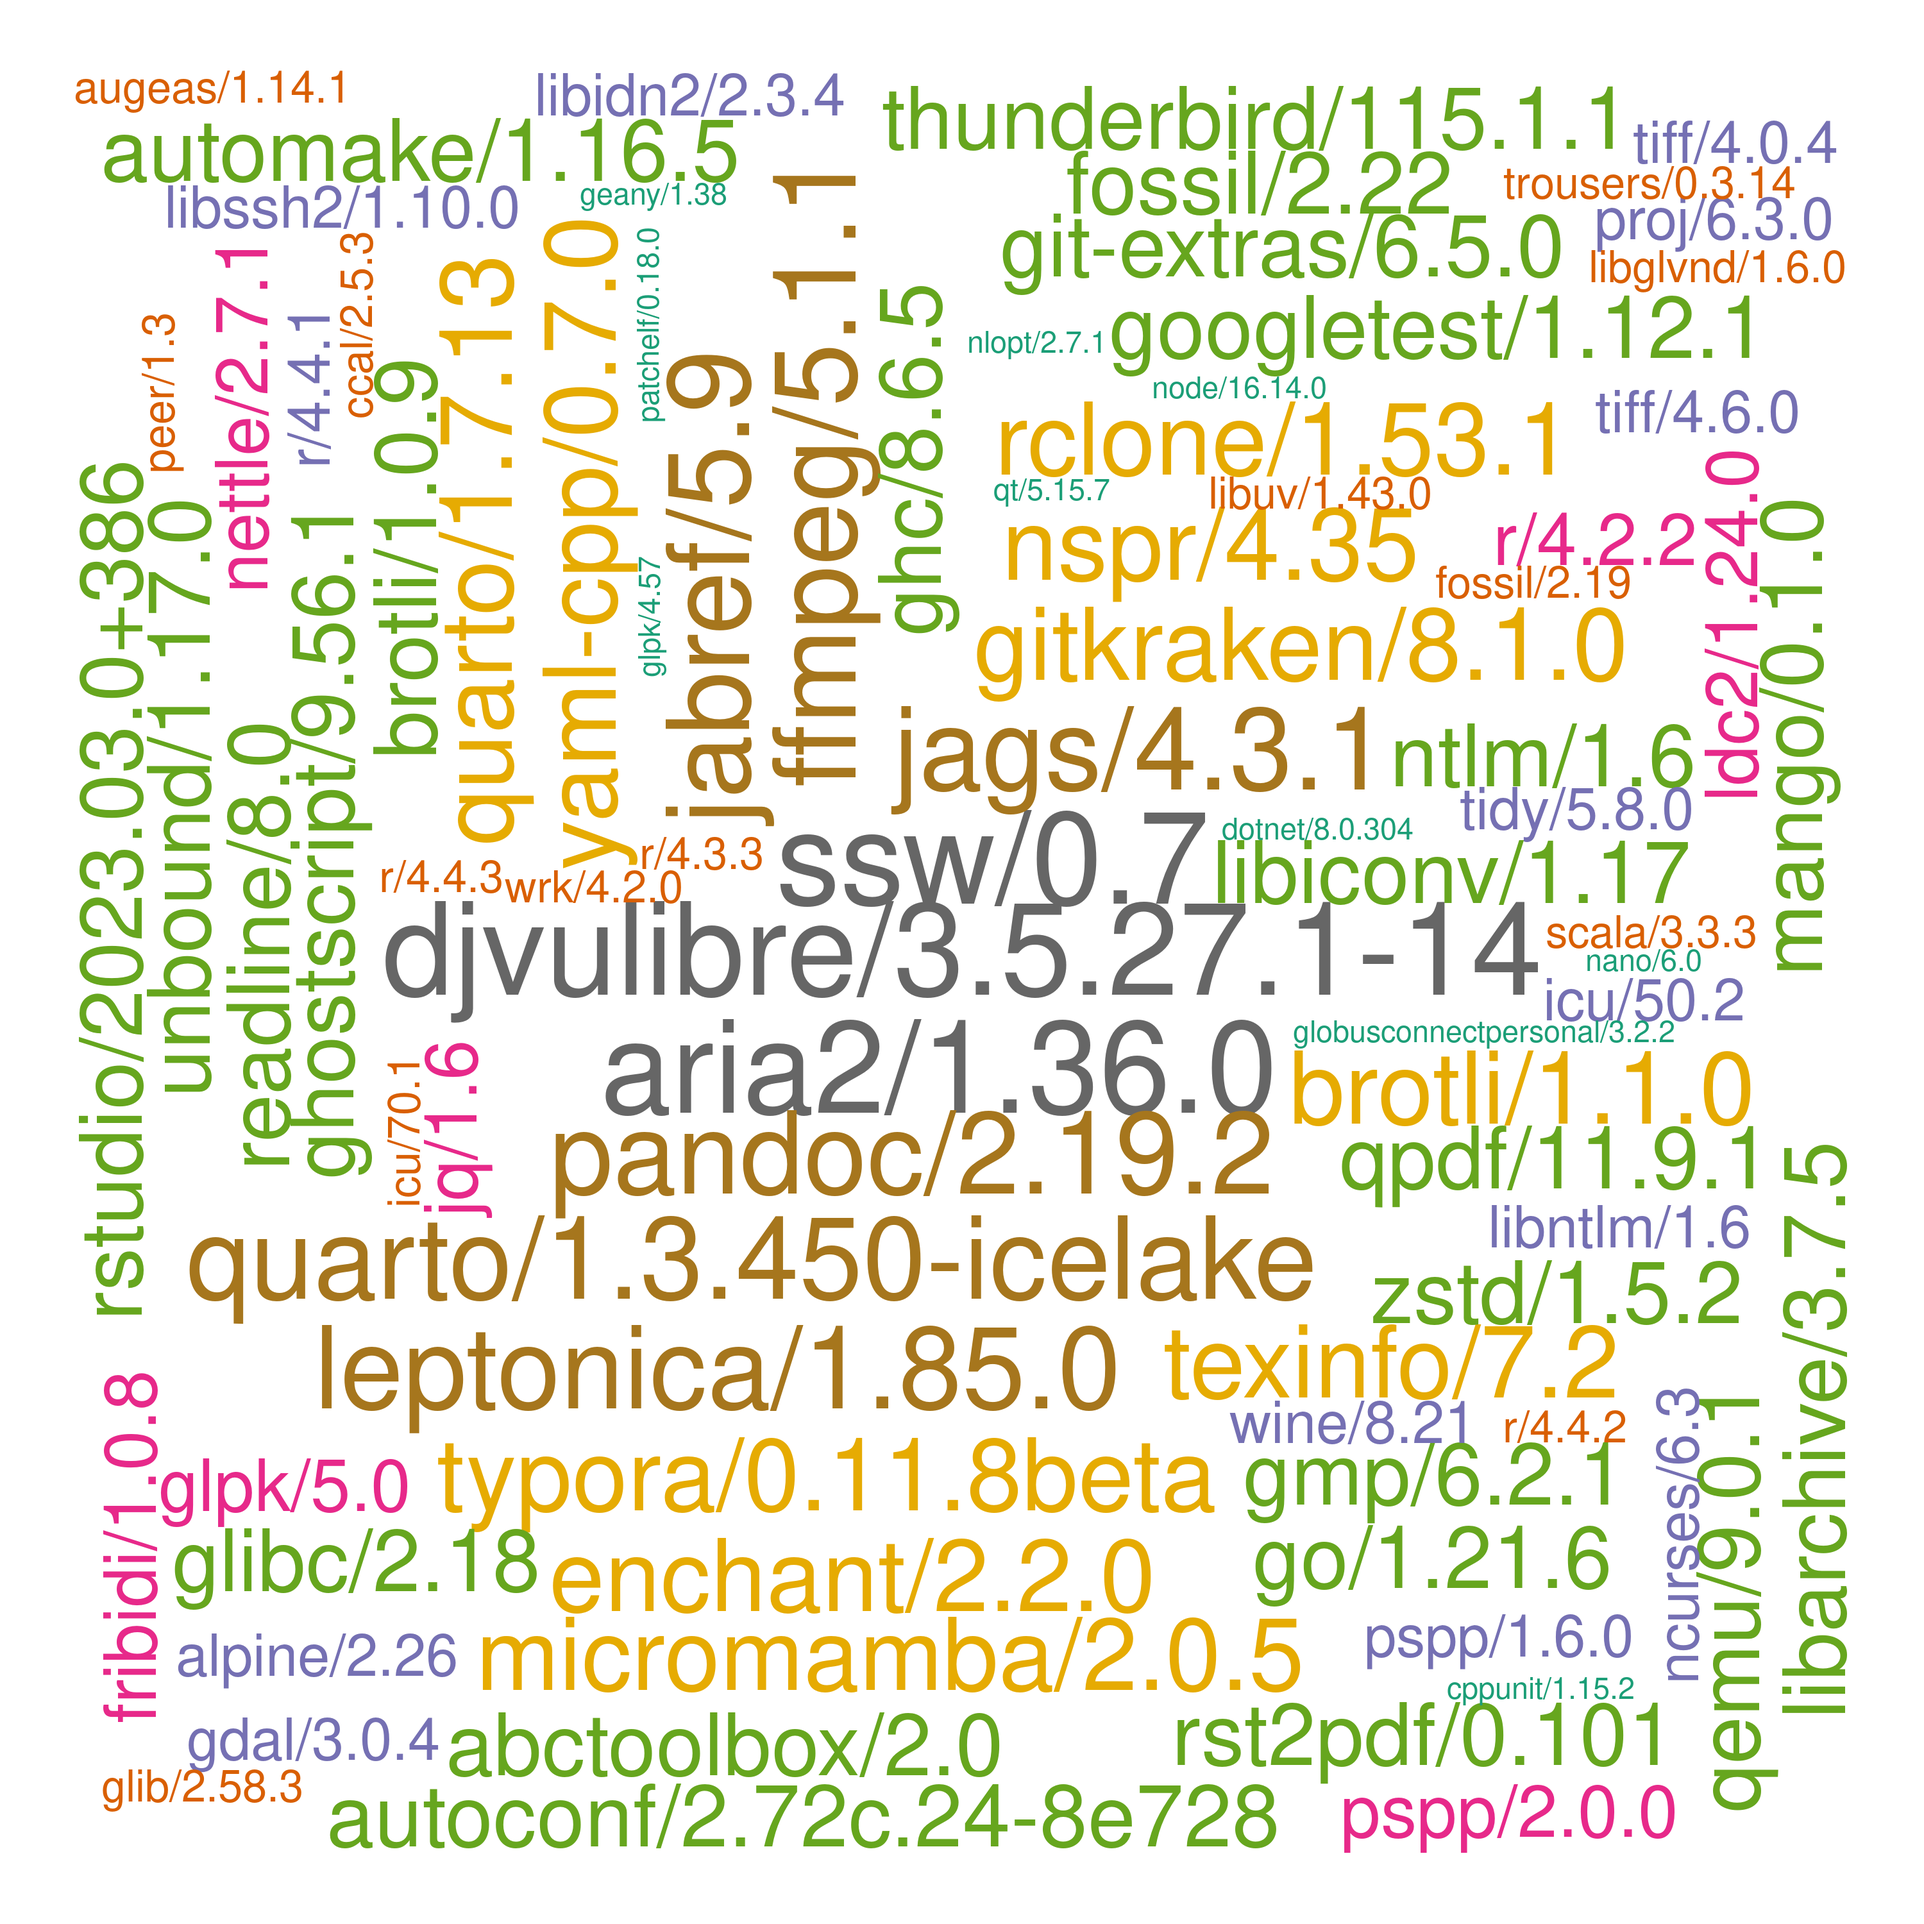
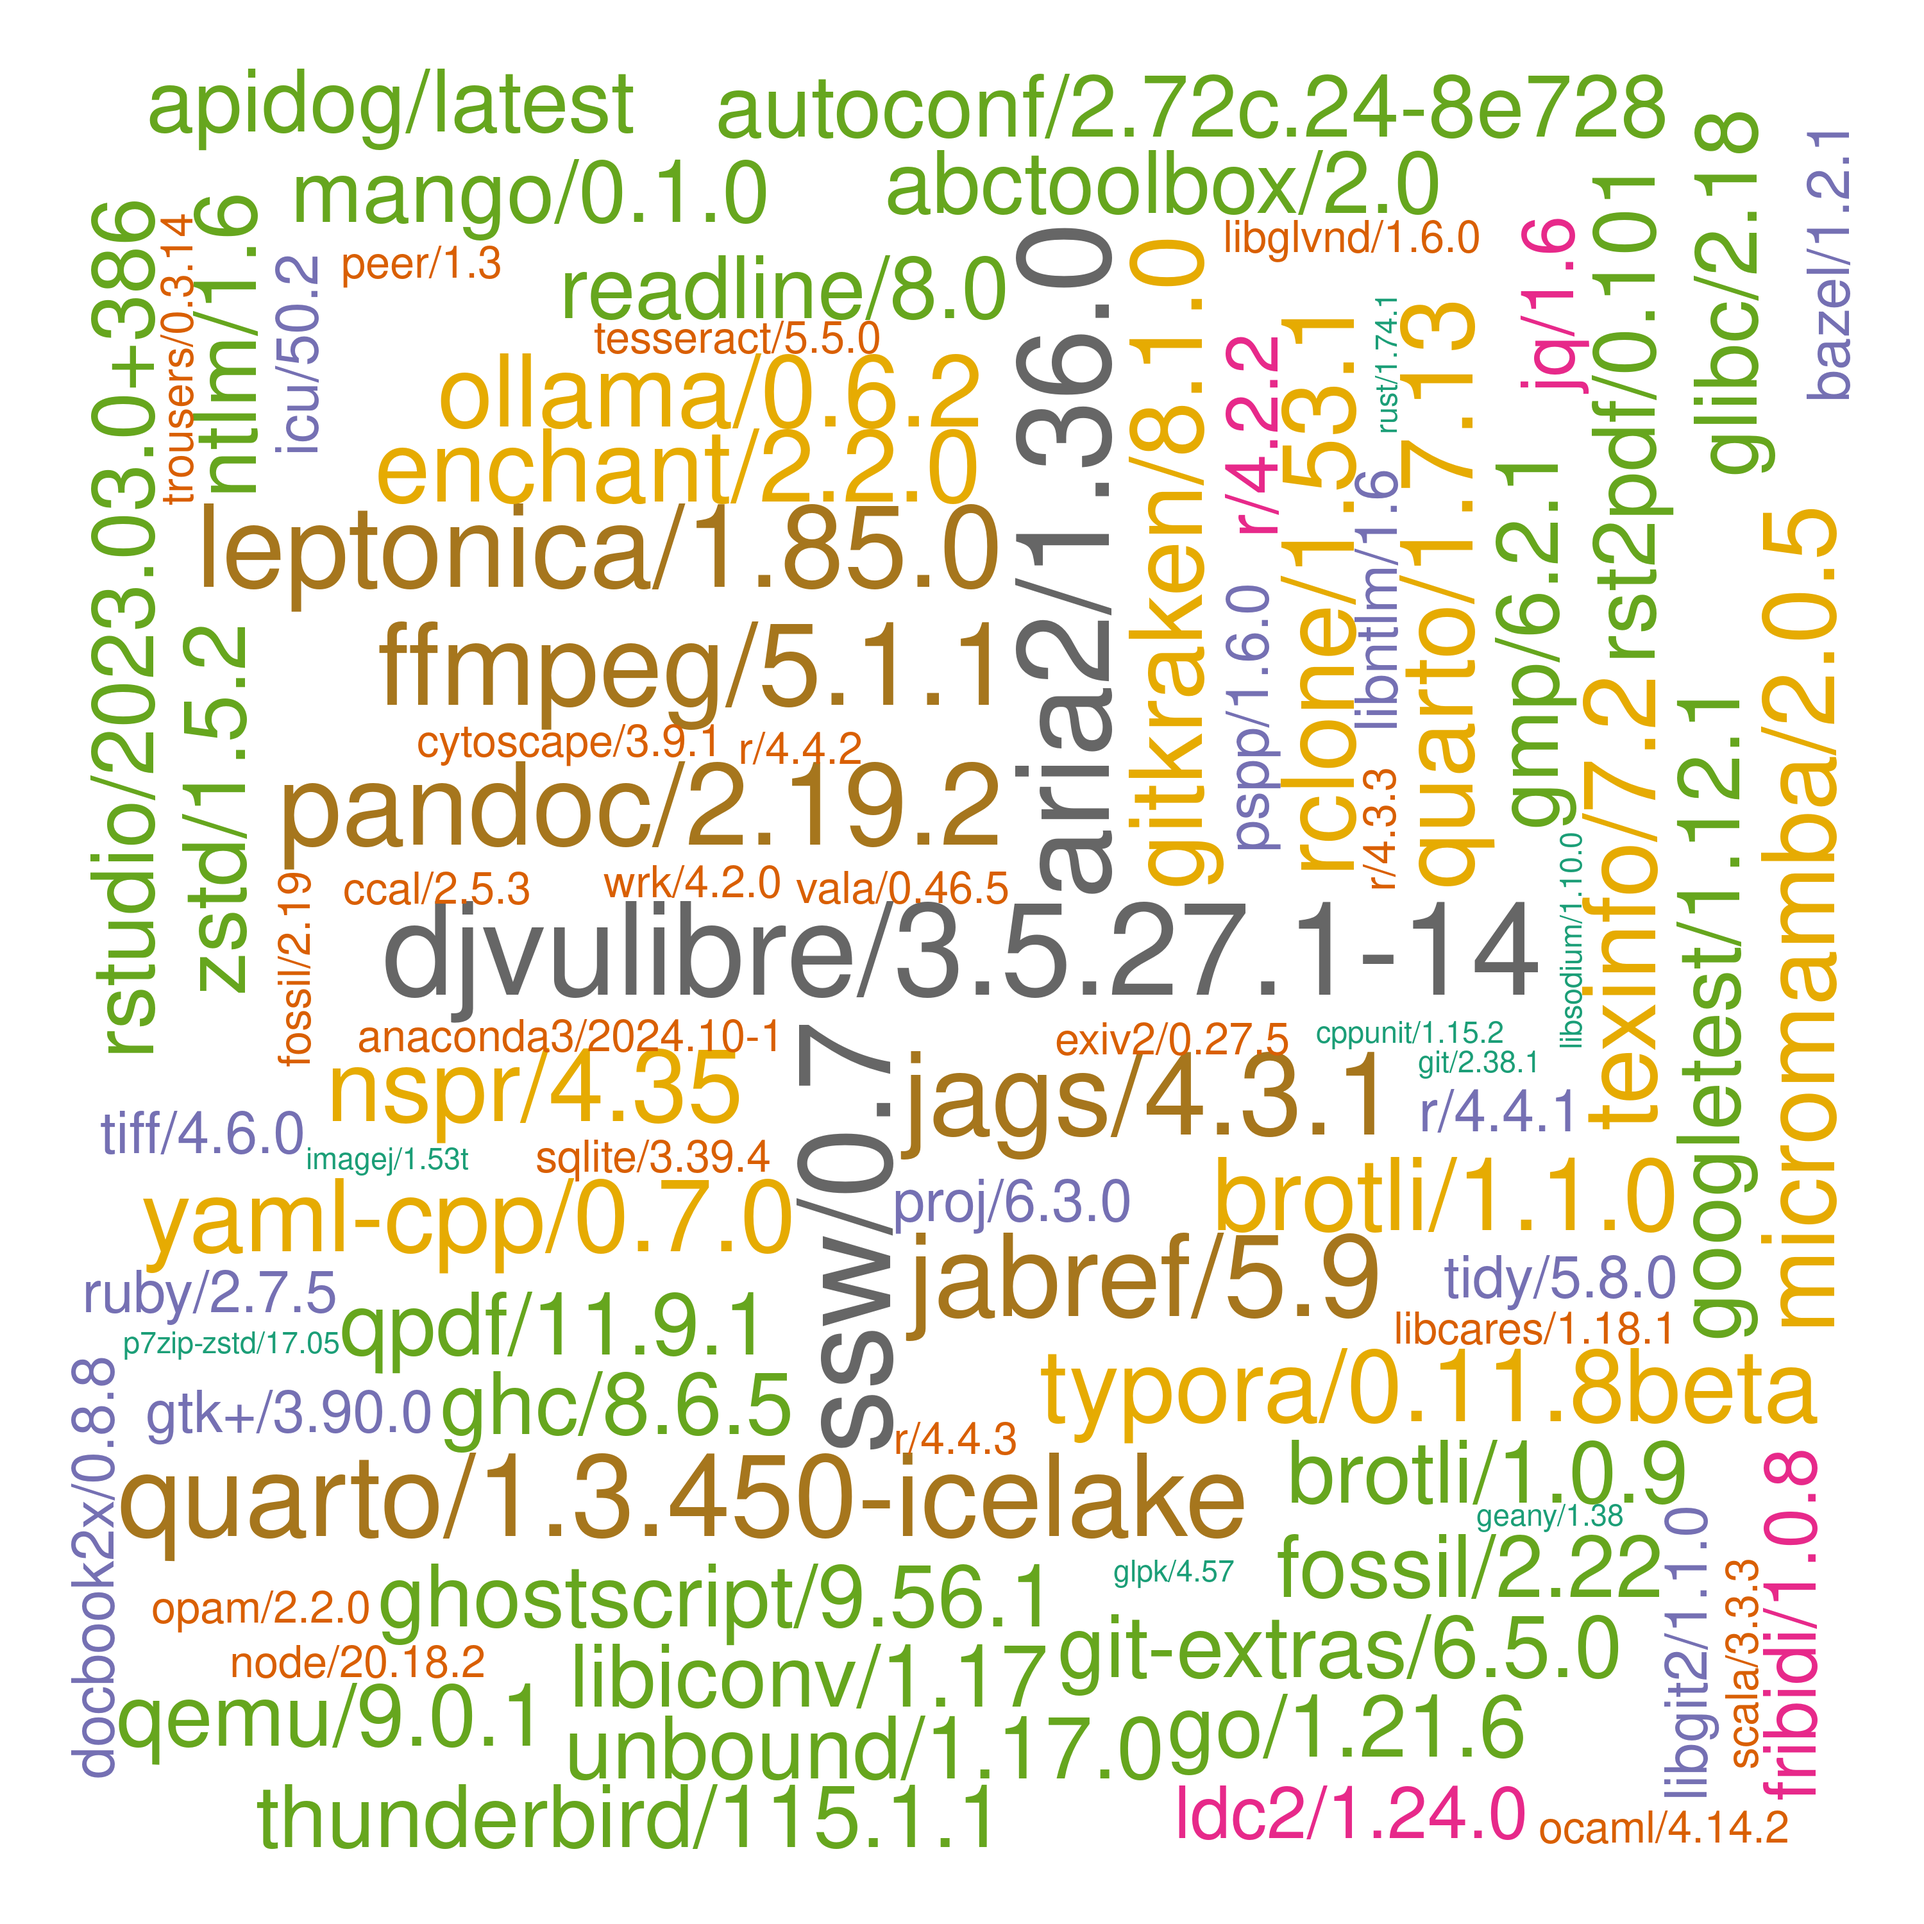
./

Changed region(s): [[0.031, 0.031, 0.961, 0.961]]

diff --git a/systems/ceuadmin.md b/systems/ceuadmin.md
@@ -52,42 +52,42 @@ The current list is as follows,
 [137] "libglvnd"               "libiconv"               "libidn2"                "libjpeg-turbo"
 [141] "libntlm"                "libpng"                 "libseccomp"             "libsodium"
 [145] "libssh"                 "libssh2"                "libuv"                  "libxml2"
-[149] "libxslt"                "linux"                  "locuszoom"              "LVM2"
-[153] "MAGENTA"                "magma"                  "Mango"                  "MaxQuant"
-[157] "Mega2"                  "metal"                  "MetaMorpheus"           "micromamba"
-[161] "Miniconda3"             "MONSTER"                "MORGAN"                 "MR-MEGA"
-[165] "msamanda"               "MsCAVIAR"               "MSFragger"              "MS-GF+"
-[169] "msms"                   "nano"                   "ncbi-vdb"               "ncurses"
-[173] "netbeans"               "nettle"                 "nextflow"               "nginx"
-[177] "NLopt"                  "node"                   "nspr"                   "ntlm"
-[181] "ocaml"                  "ollama"                 "oniguruma"              "opam"
-[185] "openjdk"                "OpenMS"                 "openssh"                "openssl"
-[189] "osca"                   "p7zip-zstd"             "PAINTOR"                "pandoc"
-[193] "pandoc-citeproc"        "pango"                  "parallel"               "Pascal"
-[197] "patchelf"               "pcre2"                  "pdf2djvu"               "pdfjam"
-[201] "peer"                   "Perseus"                "pgsc_calc"              "phenoscanner"
-[205] "PhySO"                  "picard"                 "pigz"                   "plink"
-[209] "plink-bgi"              "plinkseq"               "podman"                 "PoGo"
-[213] "polyphen"               "poppler"                "popt"                   "proj"
-[217] "PRSice"                 "pspp"                   "pulsar"                 "PWCoCo"
-[221] "pwiz"                   "qctool"                 "qemu"                   "qpdf"
-[225] "qt"                     "qtcreator"              "QTLtools"               "quarto"
-[229] "quicktest"              "R"                      "raremetal"              "rclone"
-[233] "readline"               "regenie"                "regtools"               "RHHsoftware"
-[237] "rst2pdf"                "rstudio"                "rtmpdump"               "ruby"
-[241] "rust"                   "sage"                   "samtools"               "Scala"
-[245] "seqkit"                 "shapeit"                "singularity"            "SMR"
-[249] "snakemake"              "SNP2HLA"                "snptest"                "spread-sheet-widget"
-[253] "spyder"                 "sqlite"                 "sra-tools"              "sshpass"
-[257] "ssw"                    "STAR"                   "stata"                  "SurvivalAnalysis"
-[261] "SurvivalKit"            "Swift"                  "SYMPHONY"               "tabix"
-[265] "tandem"                 "tatami"                 "tesseract"              "texinfo"
-[269] "ThermoRawFileParser"    "ThermoRawFileParserGUI" "thunderbird"            "tidy"
-[273] "tiff"                   "trinculo"               "trousers"               "Typora"
-[277] "unbound"                "vala"                   "VarScan"                "vcftools"
-[281] "VEGAS2"                 "verifyBamID"            "VSCode"                 "VSCodium"
-[285] "vte"                    "wine"                   "wrk"                    "xpdf"
-[289] "yaml-cpp"               "Zotero"                 "zstd"
+[149] "libxslt"                "linux"                  "llama.cpp"              "locuszoom"
+[153] "LVM2"                   "MAGENTA"                "magma"                  "Mango"
+[157] "MaxQuant"               "Mega2"                  "metal"                  "MetaMorpheus"
+[161] "micromamba"             "Miniconda3"             "MONSTER"                "MORGAN"
+[165] "MR-MEGA"                "msamanda"               "MsCAVIAR"               "MSFragger"
+[169] "MS-GF+"                 "msms"                   "nano"                   "ncbi-vdb"
+[173] "ncurses"                "netbeans"               "nettle"                 "nextflow"
+[177] "nginx"                  "NLopt"                  "node"                   "nspr"
+[181] "ntlm"                   "ocaml"                  "ollama"                 "oniguruma"
+[185] "opam"                   "openjdk"                "OpenMS"                 "openssh"
+[189] "openssl"                "osca"                   "p7zip-zstd"             "PAINTOR"
+[193] "pandoc"                 "pandoc-citeproc"        "pango"                  "parallel"
+[197] "Pascal"                 "patchelf"               "pcre2"                  "pdf2djvu"
+[201] "pdfjam"                 "peer"                   "Perseus"                "pgsc_calc"
+[205] "phenoscanner"           "PhySO"                  "picard"                 "pigz"
+[209] "plink"                  "plink-bgi"              "plinkseq"               "podman"
+[213] "PoGo"                   "polyphen"               "poppler"                "popt"
+[217] "proj"                   "PRSice"                 "pspp"                   "pulsar"
+[221] "PWCoCo"                 "pwiz"                   "qctool"                 "qemu"
+[225] "qpdf"                   "qt"                     "qtcreator"              "QTLtools"
+[229] "quarto"                 "quicktest"              "R"                      "raremetal"
+[233] "rclone"                 "readline"               "regenie"                "regtools"
+[237] "RHHsoftware"            "rst2pdf"                "rstudio"                "rtmpdump"
+[241] "ruby"                   "rust"                   "sage"                   "samtools"
+[245] "Scala"                  "seqkit"                 "shapeit"                "singularity"
+[249] "SMR"                    "snakemake"              "SNP2HLA"                "snptest"
+[253] "spread-sheet-widget"    "spyder"                 "sqlite"                 "sra-tools"
+[257] "sshpass"                "ssw"                    "STAR"                   "stata"
+[261] "SurvivalAnalysis"       "SurvivalKit"            "Swift"                  "SYMPHONY"
+[265] "tabix"                  "tandem"                 "tatami"                 "tesseract"
+[269] "texinfo"                "ThermoRawFileParser"    "ThermoRawFileParserGUI" "thunderbird"
+[273] "tidy"                   "tiff"                   "trinculo"               "trousers"
+[277] "Typora"                 "unbound"                "vala"                   "VarScan"
+[281] "vcftools"               "VEGAS2"                 "verifyBamID"            "VSCode"
+[285] "VSCodium"               "vte"                    "wine"                   "wrk"
+[289] "xpdf"                   "yaml-cpp"               "Zotero"                 "zstd"
 ```
 
 These are wrapped up as :star::star::star: **[modules](https://modules.readthedocs.io/en/latest/index.html)** :star::star::star:.

diff --git a/systems/setup.md b/systems/setup.md
@@ -384,6 +384,7 @@ All entries are ordered chronologically.
 | 2025-03-22  | diann/2.0.2                      | Proteomics[^diann]   |
 | 2025-03-25  | firefox/60.5.1-1.el7             | Generic[^60.5]       |
 | 2025-03-26  | firefox/136.0                    | Generic              |
+| 2025-03-29  | llama.cpp/0.0.4991               | Generic[^llama.cpp]  |
 
 \* CEU or approved users only.
 
@@ -1965,3 +1966,25 @@ They are generated from script [setup.sh](setup.sh),
 [^60.5]: **firefox/60.5.1-1.el7**
 
     This is actually the only version (from shub://nuitrcs/singularity-firefox) which works on CSD3.
+
+[^llama.cpp]: **llama.cpp**
+
+    ```bash
+    git clone https://github.com/ggerganov/llama.cpp.git
+    cd llama.cpp
+    mkdir build && cd build
+    cmake -DCMAKE_INSTALL_PREFIX=$CEUADMIN/llama.cpp/0.0.4991 ..
+    make && make install
+    ```
+
+    An example with `/DeepSeek-V3-0324`,
+
+    ```bash
+    module load ceuadmin/llama.cpp/0.0.4991
+    wget https://huggingface.co/unsloth/DeepSeek-V3-0324-GGUF/resolve/main/UD-IQ2_XXS/DeepSeek-V3-0324-UD-IQ2_XXS-00001-of-00005.gguf
+    wget https://huggingface.co/unsloth/DeepSeek-V3-0324-GGUF/resolve/main/UD-IQ2_XXS/DeepSeek-V3-0324-UD-IQ2_XXS-00002-of-00005.gguf
+    wget https://huggingface.co/unsloth/DeepSeek-V3-0324-GGUF/resolve/main/UD-IQ2_XXS/DeepSeek-V3-0324-UD-IQ2_XXS-00003-of-00005.gguf
+    wget https://huggingface.co/unsloth/DeepSeek-V3-0324-GGUF/resolve/main/UD-IQ2_XXS/DeepSeek-V3-0324-UD-IQ2_XXS-00004-of-00005.gguf
+    wget https://huggingface.co/unsloth/DeepSeek-V3-0324-GGUF/resolve/main/UD-IQ2_XXS/DeepSeek-V3-0324-UD-IQ2_XXS-00005-of-00005.gguf
+    llama-gguf-split --merge DeepSeek-V3-0324-UD-IQ2_XXS-00001-of-00005.gguf DeepSeek-V3-0324-UD-IQ2_XXS.gguf
+    ```
